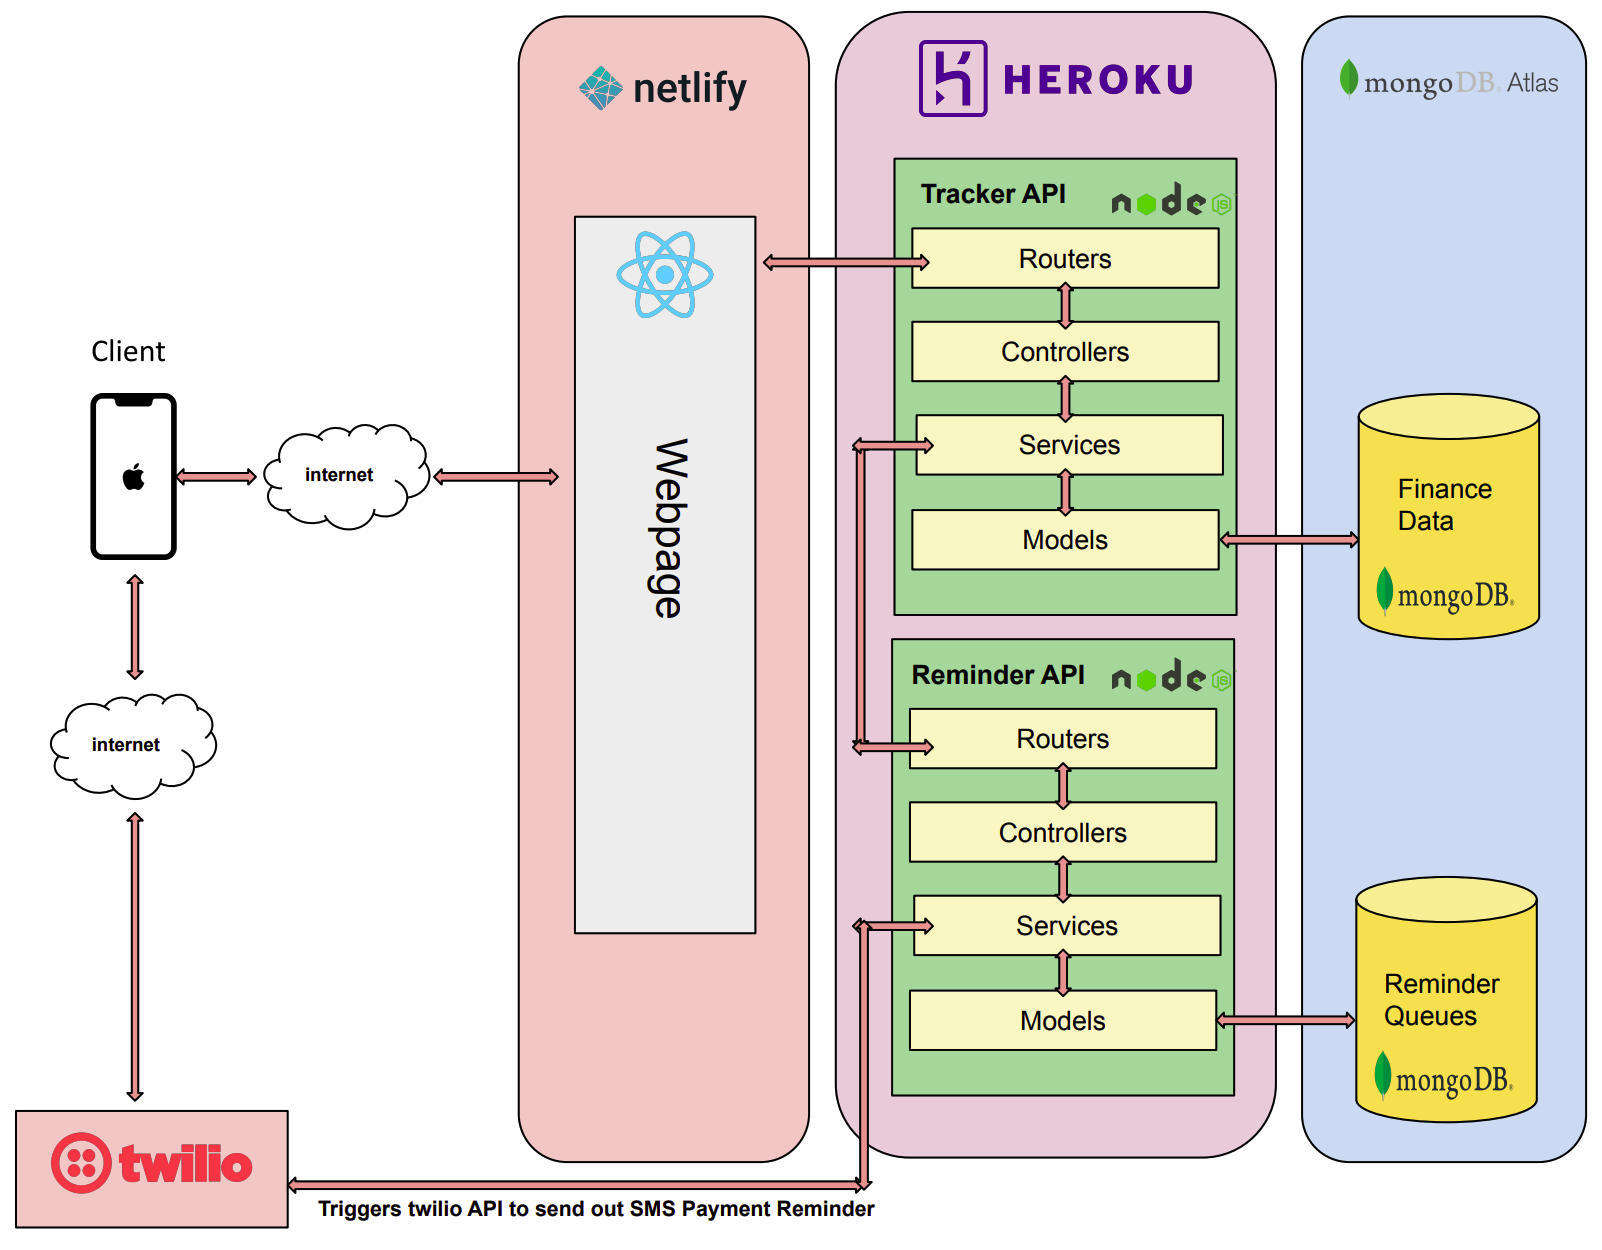
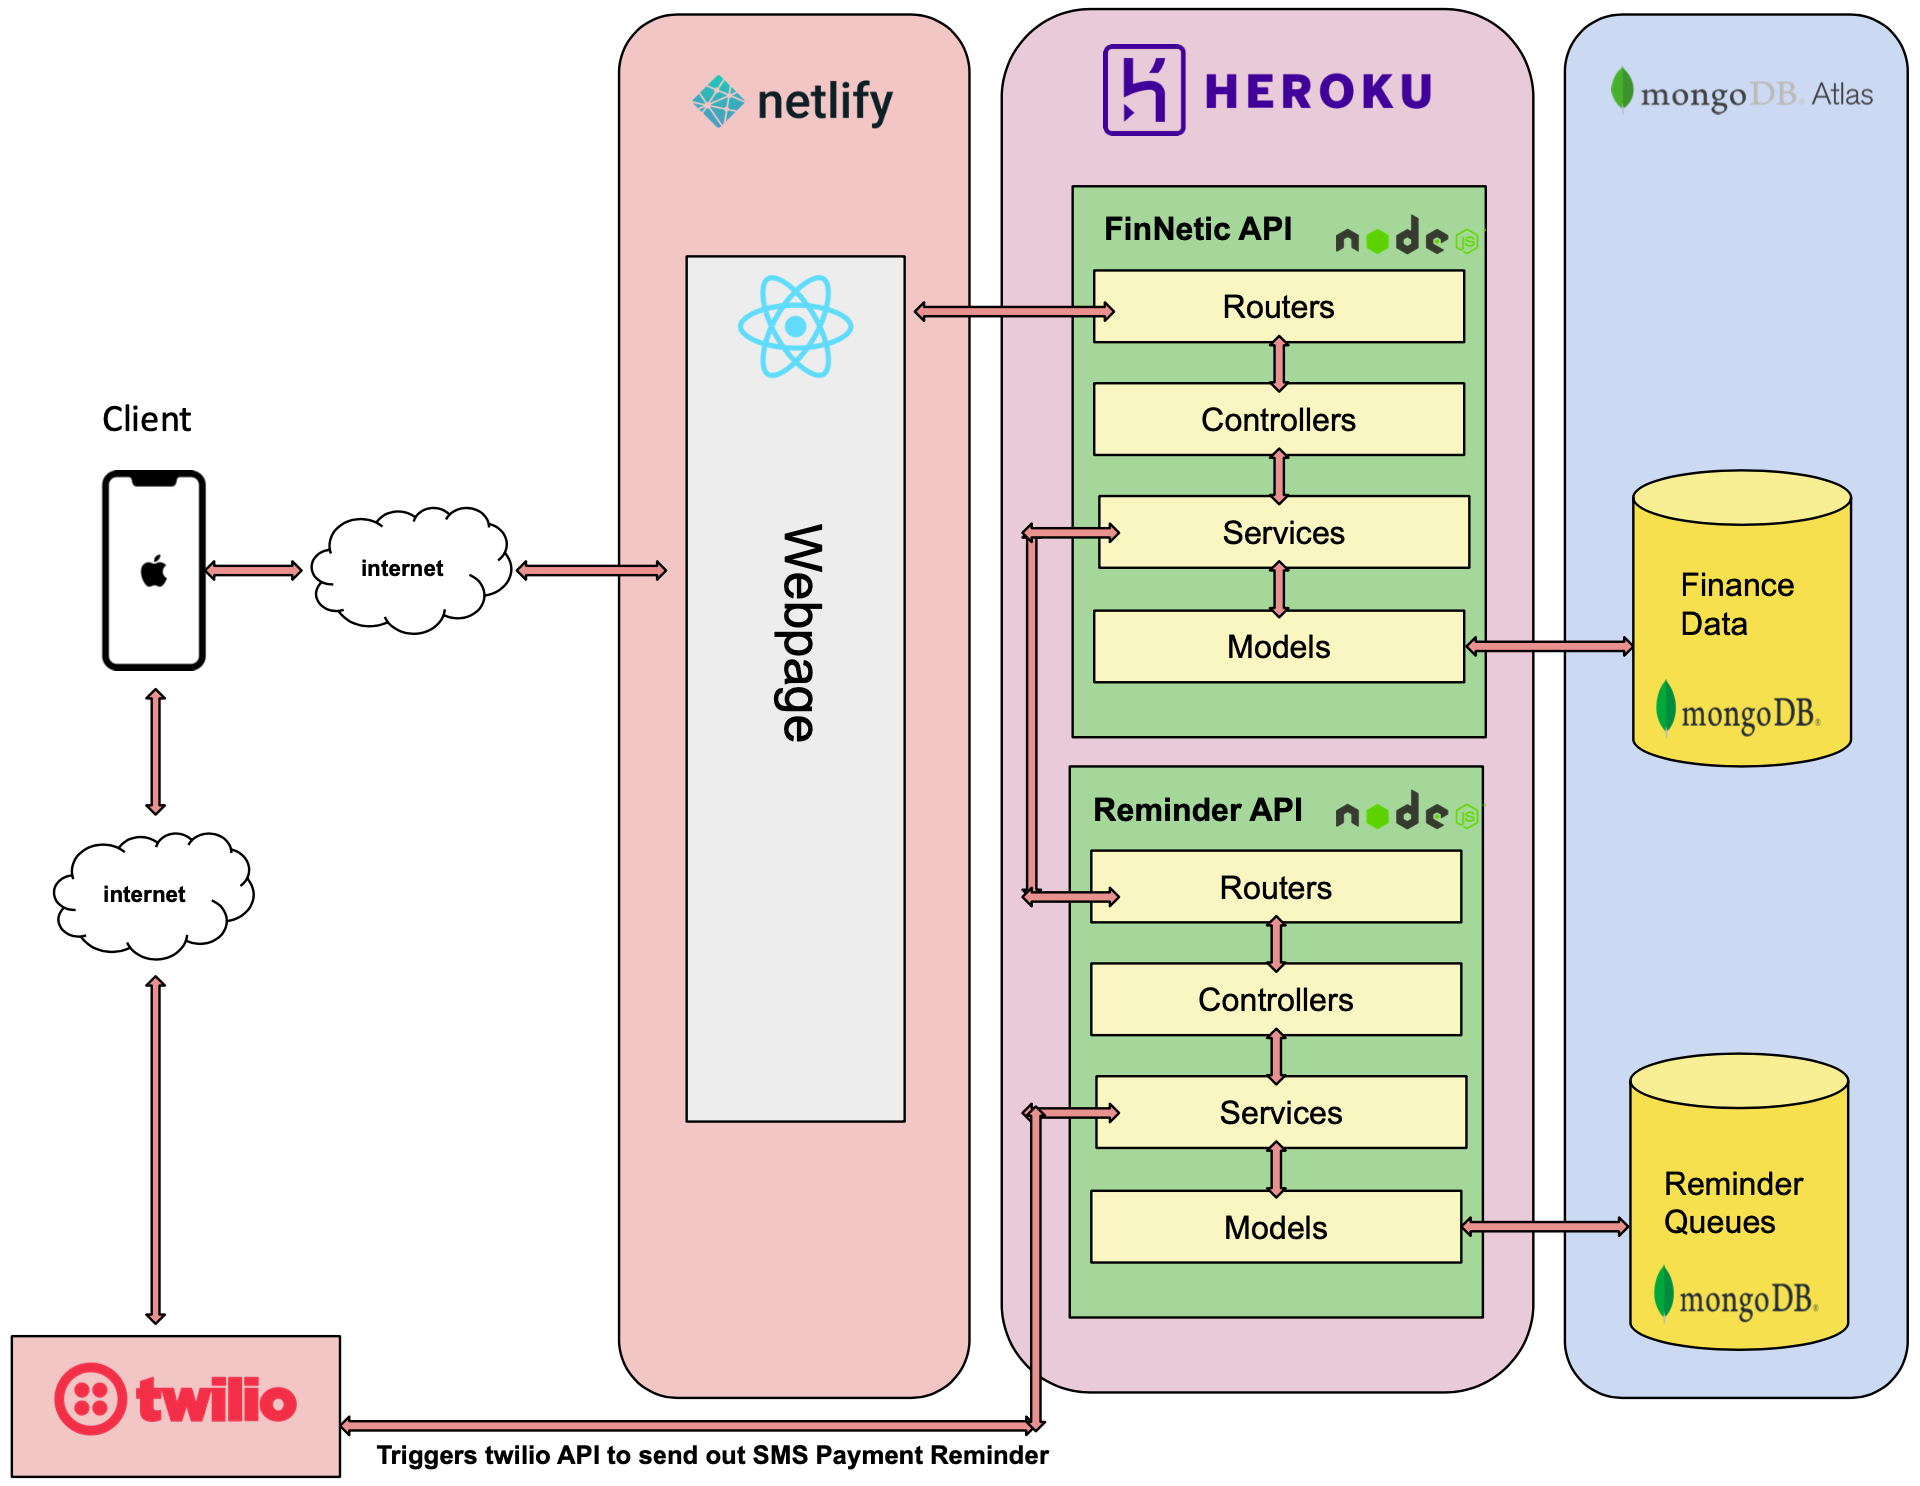
Updates * Updated projectData.js * Added design for deisgnernailsalon

diff --git a/src/utils/projectsData.js b/src/utils/projectsData.js
@@ -25,7 +25,7 @@ module.exports = {
             name: "Designer Nail Salon",
             sub_headline: 'A local nail salon web application',
             image_path: '/images/dns1.JPG',
-            design_path: '',
+            design_path: '/images/dns_design.png',
             giphy_path:'/images/designergif.gif',
             tech: [
                 'HTML5,CSS3',
@@ -50,6 +50,7 @@ module.exports = {
                 'React.js',
                 'Node/Express.js',
                 'Firebase Cloud Storage',
+                'JWT Authentication',
                 'MongoDB',
                 'Heroku',               
                 'Netlify',               
@@ -108,8 +109,8 @@ module.exports = {
             repo:'https://github.com/jimmytran16/send-covid-data-website'
         },
         '7': {
-            description: "Created a personal financial application that would keep track of all of your open accounts. Users are able to register for an account and start tracking their finances. This application will demonstrate chart visualizations analysis of all of your accounts and payments made. Includes a feature that enables you to choose if you want to get a reminder text sent to you of a particular account on the day that it is due. Implemented a Reminder API (<a href='https://www.github.com/jimmytran16/tracker-reminder-api' target='blank'>link</a>) that runs a cron job on a daily basis to send out payment reminders to users based on the account's due date.",
-            name: "Trkr",
+            description: "Created a personal financial application that would keep track of all of your open accounts. Users are able to register for an account and start tracking their finances. This application will demonstrate chart visualizations analysis of all of your accounts and payments made. Includes a feature that enables you to choose if you want to get a reminder text sent to you of a particular account on the day that it is due. Implemented a Reminder API (<a href='https://www.github.com/jimmytran16/FinNetic-reminder-api' target='blank'>link</a>) that runs a cron job on a daily basis to send out payment reminders to users based on the account's due date.",
+            name: "FinNetic",
             sub_headline: 'A personal finance application',
             image_path: '/images/covid.png',
             design_path: '/images/trkr_design.png',
@@ -117,14 +118,15 @@ module.exports = {
             tech: [
                 'React.js',
                 'Chart.js',
-                'Express.js',
+                'Node/Express.js',
                 'Twilio',
                 'JWT authentication',
                 'Node-Cron',
+                'MongoDB',
                 'Netlify',
                 'Heroku',
             ],
-            website:'https://trkrapp.netlify.app/',
+            website:'https://finnetic.netlify.app/',
             repo:'https://github.com/jimmytran16/tracker'
         }
     },
@@ -142,7 +144,7 @@ module.exports = {
             endpoint: '/project/5'
         },
         {
-            name: "Trkr",
+            name: "FinNetic",
             image_path: '/images/trkr.png',
             description: 'A personal finance application',
             endpoint: '/project/7'
